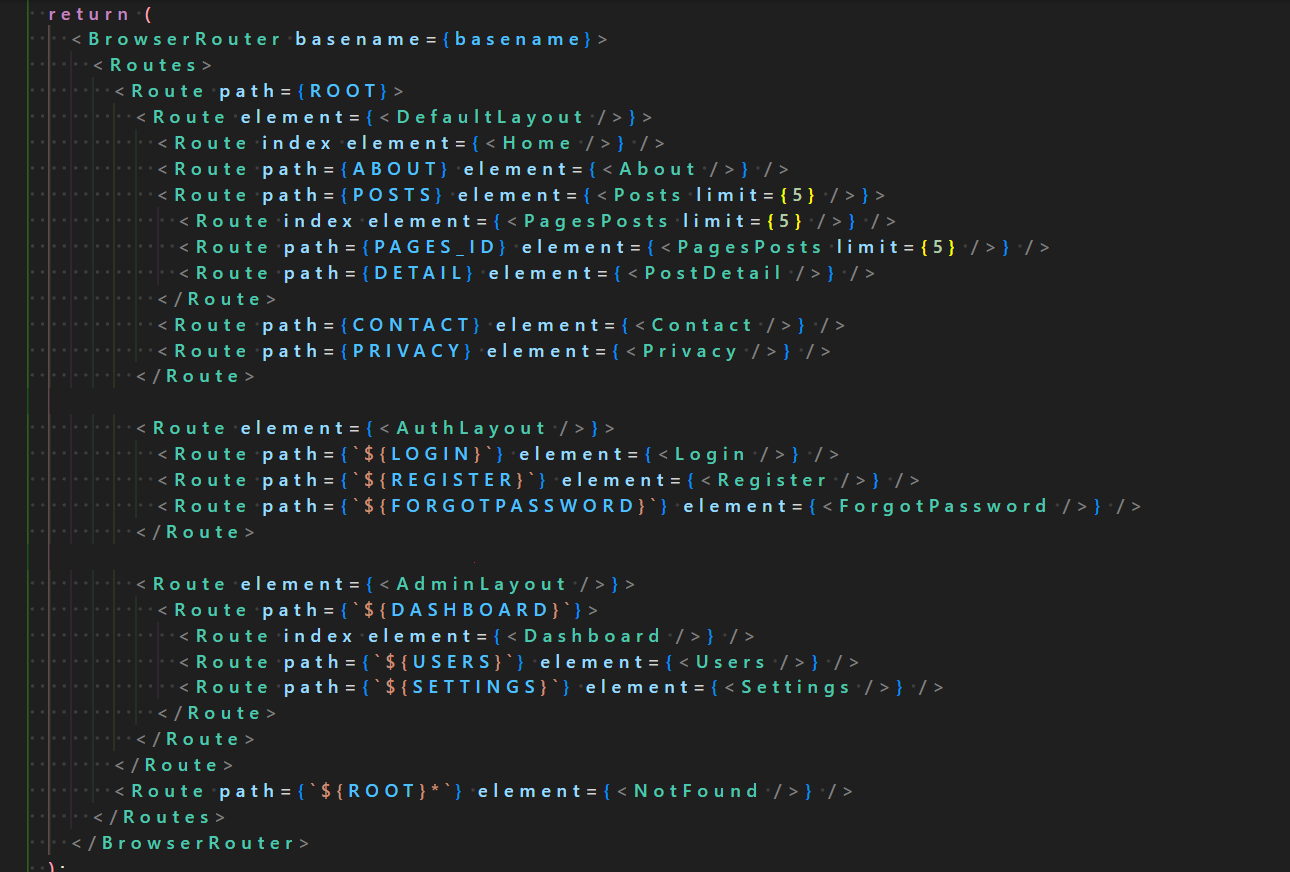
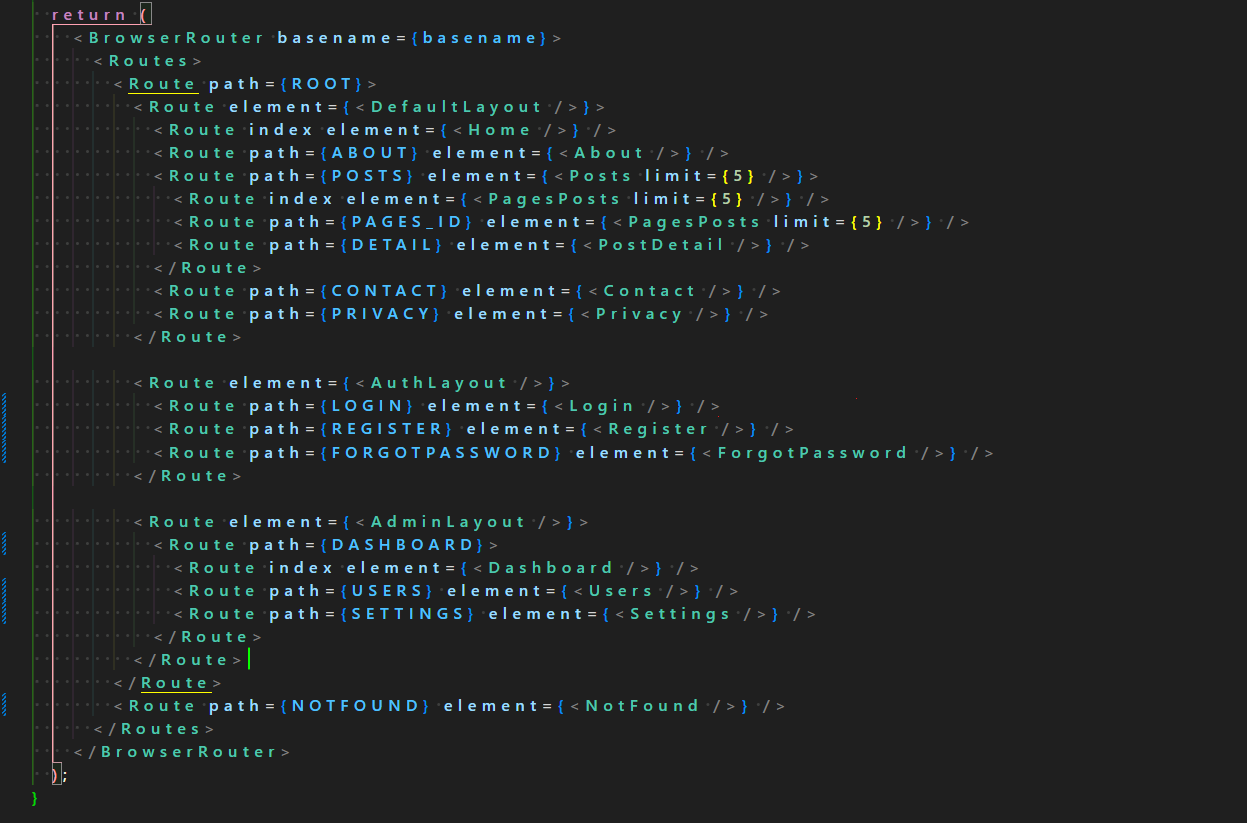
styles.actions

Changed region(s): [[0.0, 0.0, 0.8532, 0.9721]]

diff --git a/src/Routes/AppRoutes/index.jsx b/src/Routes/AppRoutes/index.jsx
@@ -16,6 +16,7 @@ const {
   SETTINGS,
   DETAIL,
   PAGES_ID,
+  NOTFOUND,
 } = ROUTES;
 
 import Home from "../../pages/Home";
@@ -58,20 +59,20 @@ function AppRoutes() {
           </Route>
 
           <Route element={<AuthLayout />}>
-            <Route path={`${LOGIN}`} element={<Login />} />
-            <Route path={`${REGISTER}`} element={<Register />} />
-            <Route path={`${FORGOTPASSWORD}`} element={<ForgotPassword />} />
+            <Route path={LOGIN} element={<Login />} />
+            <Route path={REGISTER} element={<Register />} />
+            <Route path={FORGOTPASSWORD} element={<ForgotPassword />} />
           </Route>
 
           <Route element={<AdminLayout />}>
-            <Route path={`${DASHBOARD}`}>
+            <Route path={DASHBOARD}>
               <Route index element={<Dashboard />} />
-              <Route path={`${USERS}`} element={<Users />} />
-              <Route path={`${SETTINGS}`} element={<Settings />} />
+              <Route path={USERS} element={<Users />} />
+              <Route path={SETTINGS} element={<Settings />} />
             </Route>
           </Route>
         </Route>
-        <Route path={`${ROOT}*`} element={<NotFound />} />
+        <Route path={NOTFOUND} element={<NotFound />} />
       </Routes>
     </BrowserRouter>
   );

diff --git a/src/config/routes.prefix.js b/src/config/routes.prefix.js
@@ -13,6 +13,7 @@ export const ROUTES = {
   PRIVACY: "privacy",
   DETAIL: ":postId/detail",
   PAGES_ID: ":pageId",
+  NOTFOUND: "/*",
 
   PRODUCTS: "products",
   PROFILE: "profile",
